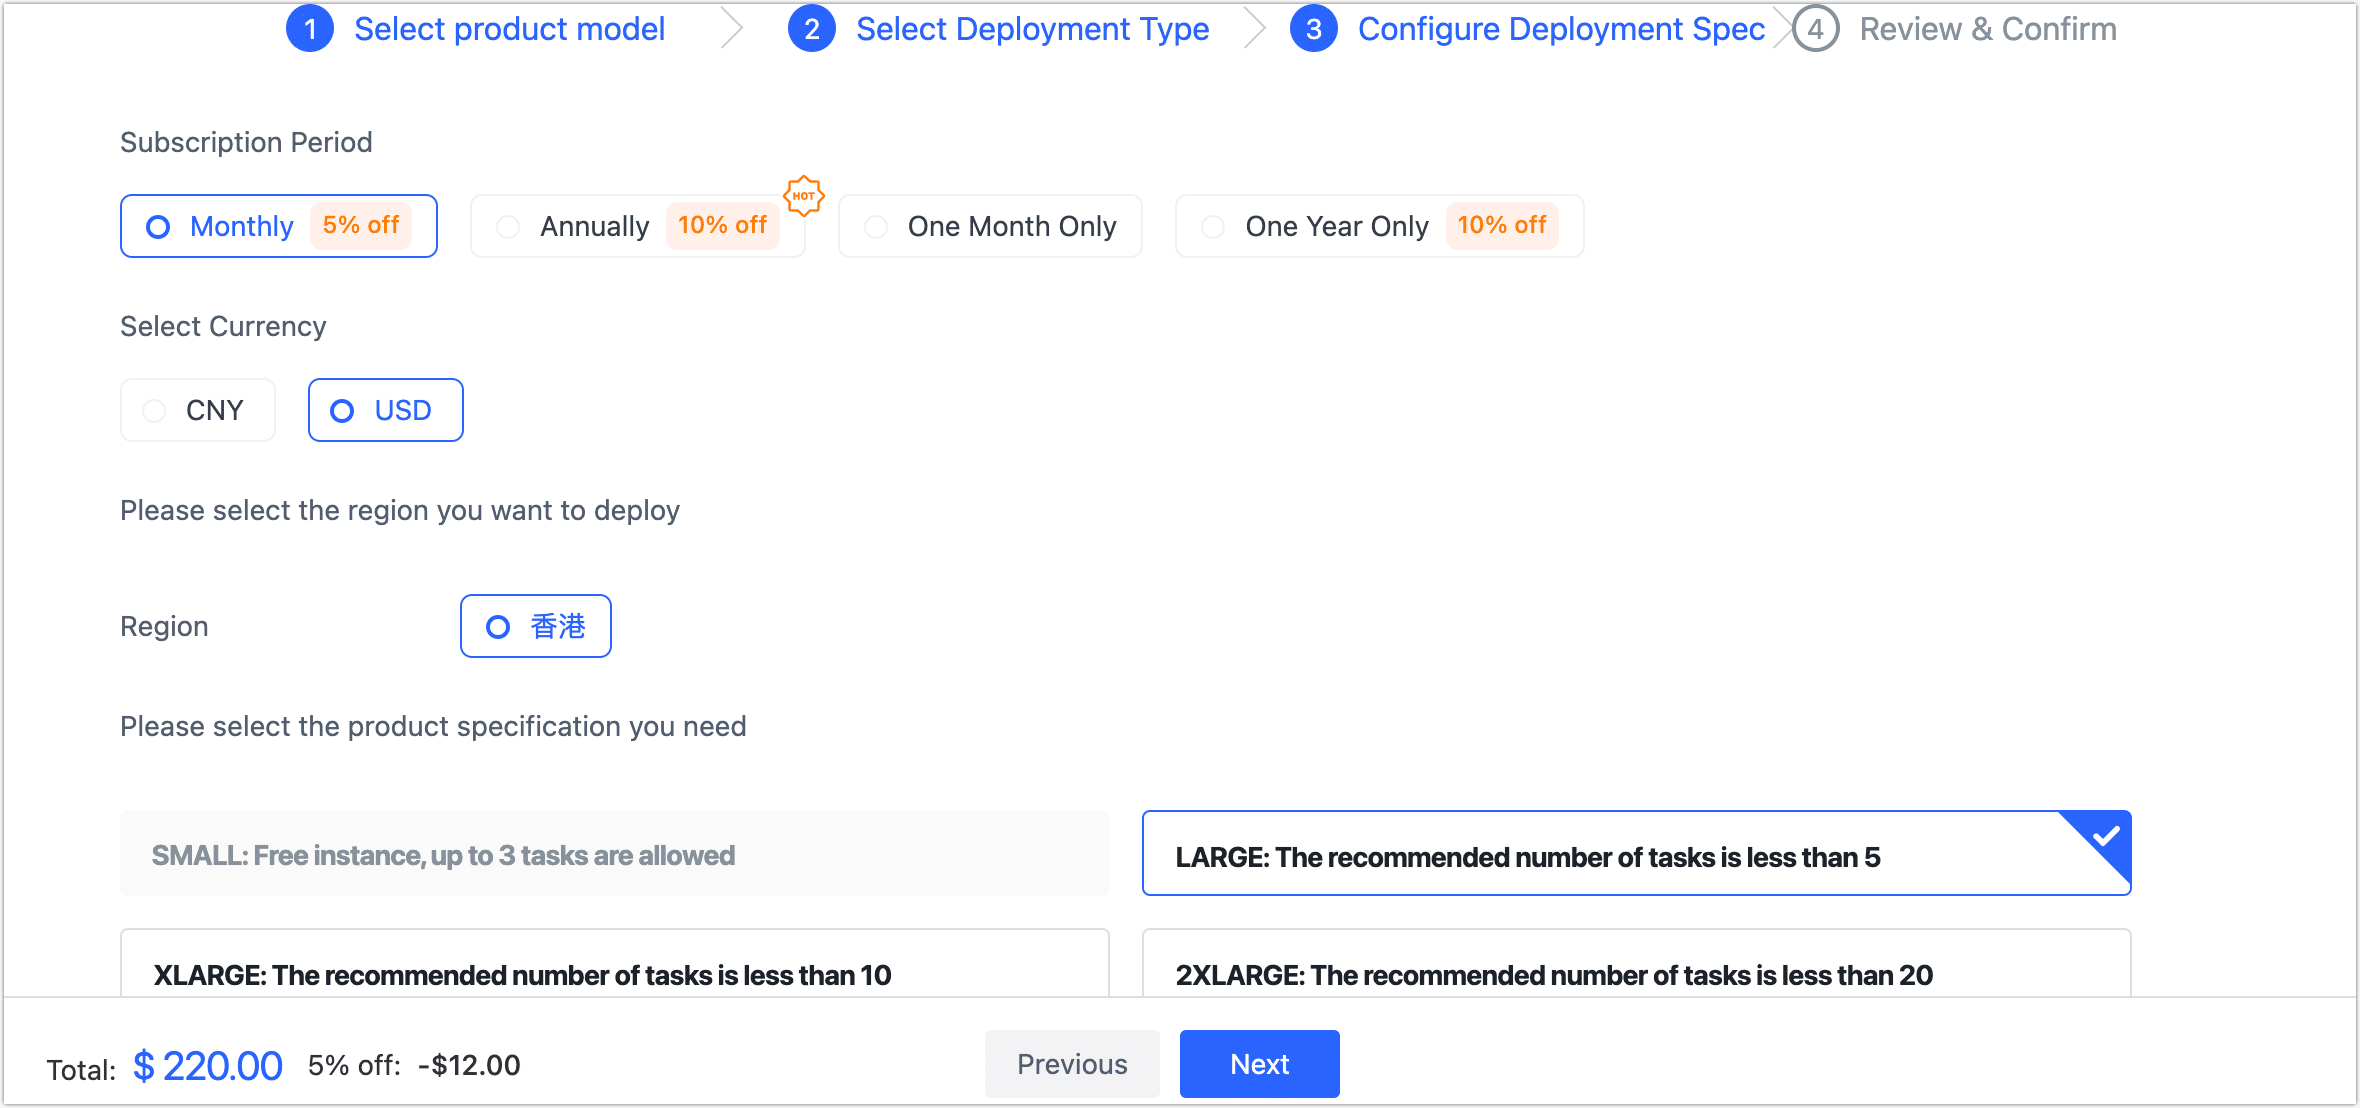
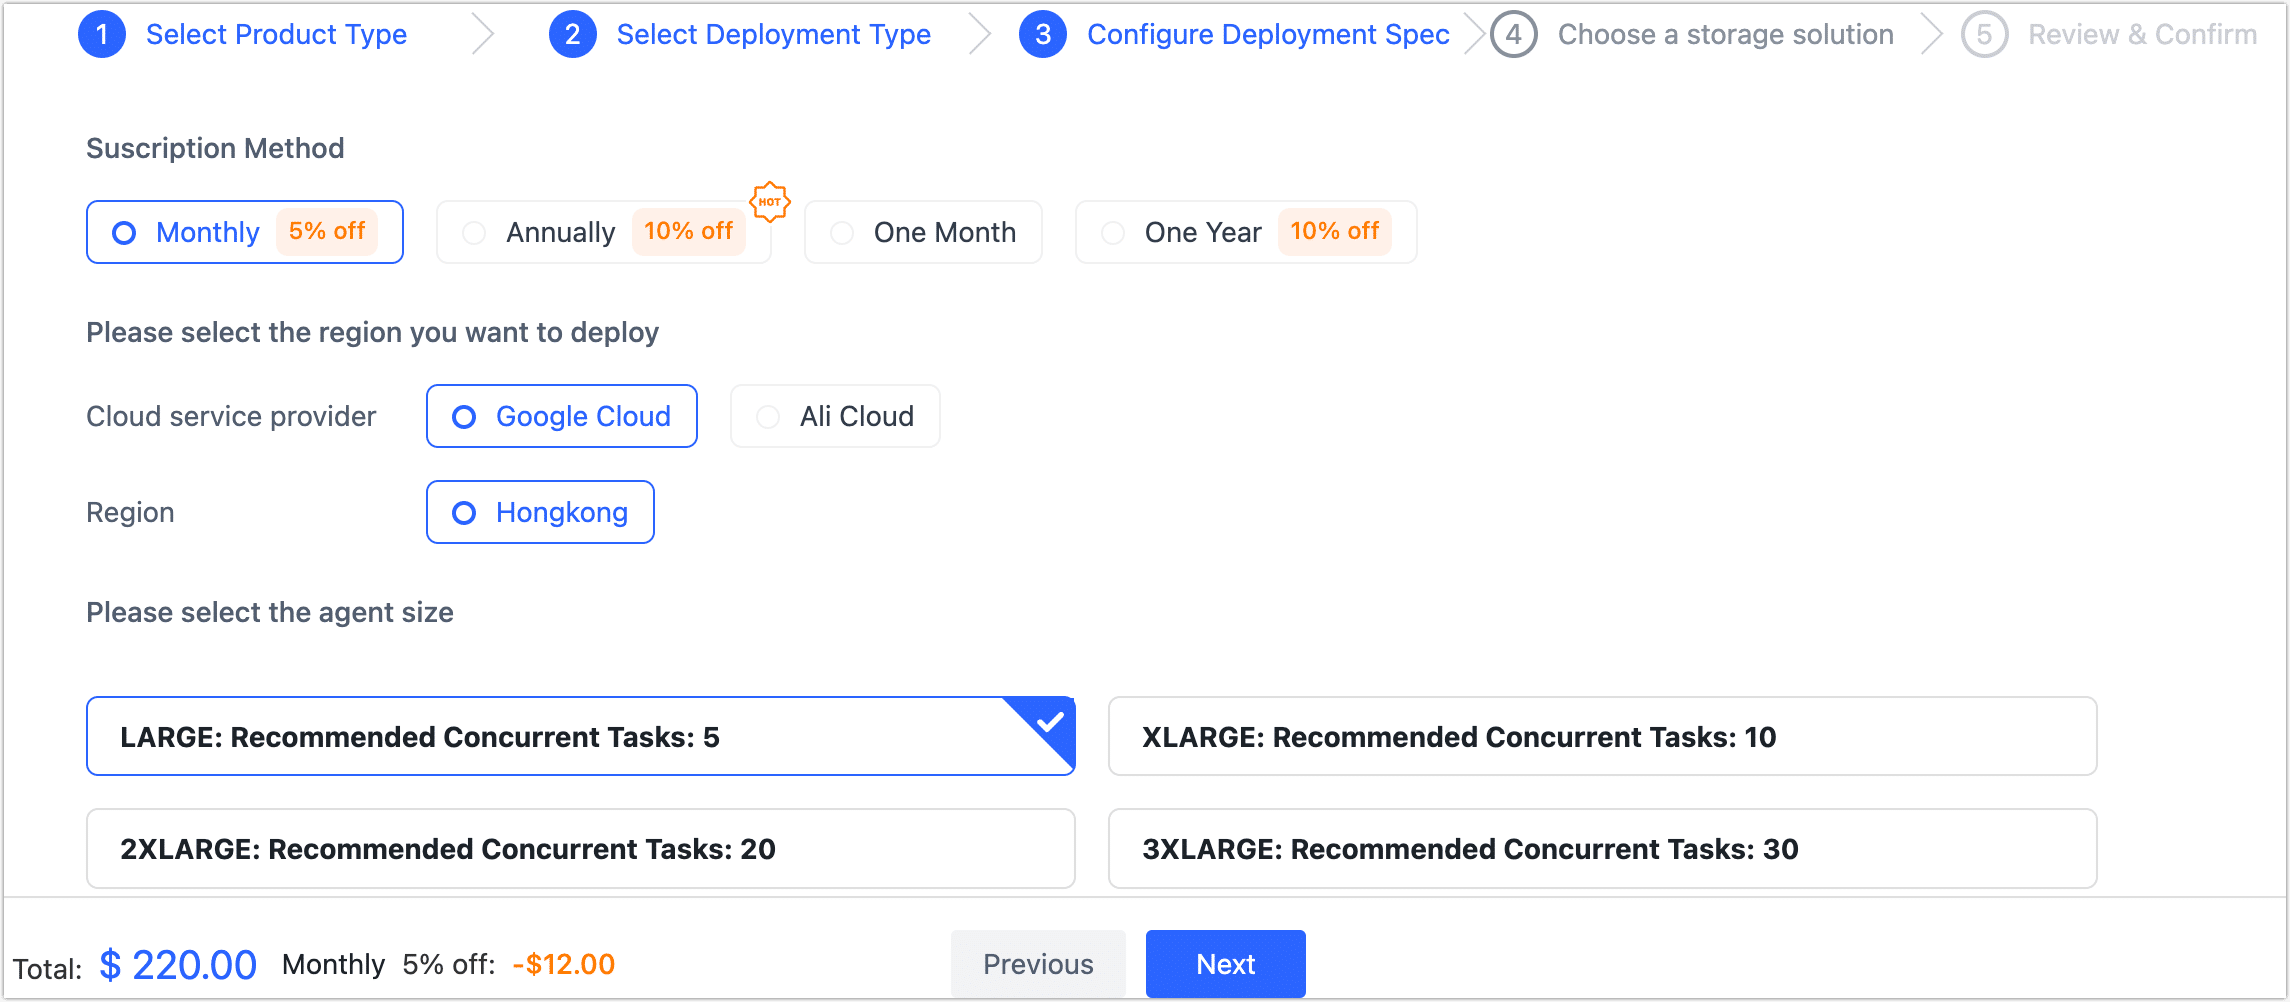
Update purchase storage process

diff --git a/docs/cloud/billing/purchase.md b/docs/cloud/billing/purchase.md
@@ -14,36 +14,72 @@ After registering with Tapdata Cloud, you will receive the benefit of creating o
 
 3. On the right side of the page, click **Create Agent**.
 
-4. In the **Select Product Model** tab, select **Integration Platform as a Service** and click **Next**.
+4. Select product model according your need and click **Next**.
+
+import Tabs from '@theme/Tabs';
+import TabItem from '@theme/TabItem';
+
+<Tabs className="unique-tabs">
+    <TabItem value="etl-model" label="Integration Platform as a Service" default>
+    <p>Suitable for data replication/synchronization, migrate data to cloud or building ETL pipelines. You can simply drag the source table to the target to automatically complete the creation of data replication tasks. For more information, see <a href="../user-guide/data-console/etl-mode"> Integration Platform as a Service</a>.</p>
+    <img src='/img/select_etl_model.png'></img>
+</TabItem>
+   <TabItem value="daas-model" label="Real Time Data as a Service">
+
+   <p>Based on the concept of data hierarchical governance, Tapdata Cloud collects data sources scattered across different business systems through the Data Cache Layer, which minimizes the impact of data extraction on business and provides basic data for subsequent data processing and business, thus building a consistent, real-time data platform and connecting data silos. For more information, see <a href="../user-guide/data-console/daas-mode/enable-daas-mode"> Real Time Data as a Service</a>.</p>
+   <img src='/img/select_daas_model.png'></img>
+   </TabItem>
+</Tabs>
 
 5. Select deployment type according your need and click **Next**.
 
-   :::tip
+<Tabs className="unique-tabs">
+    <TabItem value="semi-managed" label="Semi-Managed Mode" default>
+   <p>You have the flexibility to <a href="../quick-start/install-agent"> deploy the Agent</a> on an existing device, leveraging the available hardware resources. This approach offers cost savings while enhancing security. </p>
+   <img src='/img/semi_managed.png'></img>
+   </TabItem>
+    <TabItem value="full-managed" label="Fully-Managed Mode">
+    <p>Tapdata Cloud will provide the necessary computing/storage resources for running the Agent and deploys it automatically. It offers unified operational maintenance and resource monitoring to enhance operational reliability, enabling one-click delivery and usage, allowing your to focus on core business.</p>
+    <img src='/img/full_managed.png'></img>
+</TabItem>
+</Tabs>
 
-   * **Fully-Managed Mode** (Recommend): Tapdata Cloud will provide the necessary computing/storage resources for running the Agent and deploys it automatically. It offers unified operational maintenance and resource monitoring to enhance operational reliability, enabling one-click delivery and usage, allowing your to focus on core business.
-   * **Semi-Managed Mode**: You have the flexibility to [deploy the Agent](../quick-start/install-agent/README.md) on an existing device, leveraging the available hardware resources. This approach offers cost savings while enhancing security. 
-   * 
-
-   :::
 
 6. Next, we will demonstrate the purchasing process using the **Fully-Managed Mode** as an example. First, select information such as Agent specification and subscription method.
 
    ![Select Agent Specification](../images/select_agent_spec.png)
 
    * **Subscription Period**: Select the required subscription method, in order to avoid the expiration of the instance affecting the execution of the task, it is recommended to choose the Annually (**10% off**) or Monthly (**5% off**).
-   * **Select currency**: Currently supports CNY or USD.
+   * **Cloud Service Provider**:  When selecting the Fully Managed Mode, you need to select the cloud vendors.
    * **Region**: When selecting the Fully Managed Mode, you need to select a region where the Agent will depoly.
-   * **Product specifications**: Select product specifications based on the number of tasks and performance requirements required for evaluation. You can create an example of **SMALL**(Semi-Managed Mode) specifications for free. For detailed descriptions of product pricing and specifications, see [Billing Overview](billing-overview.md).
+   * **Product Specifications**: Select product specifications based on the number of tasks and performance requirements required for evaluation. You can create an example of **SMALL** (Semi-Managed Mode) specifications for free. For detailed descriptions of product pricing and specifications, see [Billing Overview](billing-overview.md).
 
-7. Click **Next**, on the following page, carefully review and confirm the specifications you wish to purchase. Ensure that the selected billing method aligns with your preferences. Additionally, verify that the email address provided is accurate and where you would like to receive the bill. 
+7. If you chose **Real Time Data as a Service** in Step 4, click **Next** and select the storage and compute resources for the **[Data Cache and Data Processing Layer](../user-guide/data-console/daas-mode/enable-daas-mode.md)** based on your Agent deployment mode.
 
-   Once you have double-checked all the information, click on the **OK** button to proceed with the purchase.
+<Tabs className="unique-tabs">
+    <TabItem value="semi-managed-storage" label="Semi-Managed Mode" default>
+   <p>You need to prepare a self-hosted <a href="https://www.mongodb.com/docs/manual/administration/install-on-linux/"> MongoDB database</a>  (4.0 and above) as a data repository, and fill in database URL. The user name and password need to be spliced in the connection string, for example:<pre>mongodb://admin:password@192.168.0.100:27017/mydb?replicaSet=xxx&authSource=admin</pre></p>
+   <img src='/img/etl_storage.png'></img>
+   </TabItem>
+    <TabItem value="full-managed-storage" label="Fully-Managed Mode">
+    <p>Select the specifications and storage capacity provided by the cloud vendor, and you need to pay for the selected cloud resources.</p>
+    <img src='/img/daas_storage.png'></img>
+</TabItem>
+</Tabs>
 
-8. You will redirected to payment page. Please follow the instructions on the payment page to complete the payment process. After completing the payment, you will be able to download the payment credentials.
+8. Click **Next**, carefully review and confirm the specifications you wish to purchase. Ensure that the selected billing method aligns with your preferences. Additionally, verify that the email address provided is accurate and where you would like to receive the bill. 
 
-9. After the payment is successful, return to the Tapdata Cloud platform to see that the Agent instance you purchased is **To be deployed**.
+   Once you have double-checked all the information, click on the **Online Payment** button to proceed with the purchase.
 
-   ![Subscription is successful](../images/purchase_success.png)
+   :::tip
+
+   When selecting the Real Time Data as a Service in step 4, you also need to select the storage resource
+
+   :::
+
+9. You will redirected to payment page. Please follow the instructions on the payment page to complete the payment process. After completing the payment, you will be able to download the payment credentials.
+
+10. After the payment is successful, return to the Tapdata Cloud platform to see that the Agent instance you purchased is **To be deployed**.![Subscription is successful](../images/purchase_success.png)
 
    :::tip
 

diff --git a/docs/cloud/billing/billing-overview.md b/docs/cloud/billing/billing-overview.md
@@ -38,57 +38,57 @@ import TabItem from '@theme/TabItem';
 <thead>
   <tr>
     <th>Specifications</th>
-    <th>One Month Only</th>
     <th>Monthly</th>
-    <th>One Year Only</th>
+    <th>One Month Only</th>
     <th>Annually</th>
+    <th>One Year Only</th>
   </tr>
 </thead>
 <tbody>
   <tr>
     <td>LARGE</td>
-    <td>232</td>
     <td>220</td>
+    <td>232</td>
     <td>2,508</td>
     <td>2,508</td>
   </tr>
   <tr>
     <td>XLARGE</td>
-    <td>464</td>
     <td>440</td>
+    <td>464</td>
     <td>5,016</td>
     <td>5,016</td>
   </tr>
   <tr>
     <td>2XLARGE</td>
-    <td>928</td>
     <td>880</td>
+    <td>928</td>
     <td>10,032</td>
     <td>10,032</td>
   </tr>
-    <tr>
+  <tr>
     <td>3XLARGE</td>
-    <td>1,392</td>
     <td>1,320</td>
+    <td>1,392</td>
     <td>15,048</td>
     <td>15,048</td>
   </tr>
   <tr>
     <td>4XLARGE</td>
-    <td>1,856</td>
     <td>1,764</td>
+    <td>1,856</td>
     <td>20,064</td>
     <td>20,064</td>
   </tr>
-    <tr>
+  <tr>
     <td>8XLARGE</td>
-    <td>3,172</td>
     <td>3,528</td>
+    <td>3,172</td>
     <td>40,128</td>
     <td>40,128</td>
   </tr>
 </tbody>
-</table> 
+</table>
 </TabItem>
    <TabItem value="semi-managed" label="Semi-Managed Mode">
    <p>In Semi-Managed Mode,  you need to provide the equipment for deploying and maintaining the Agent, which allows for the full utilization of existing hardware resources. This approach enables you to benefit from lower prices while further enhancing security.</p>
@@ -96,61 +96,61 @@ import TabItem from '@theme/TabItem';
 <thead>
   <tr>
     <th>Specifications</th>
-    <th>One Month Only</th>
     <th>Monthly</th>
-    <th>One Year Only</th>
+    <th>One Month Only</th>
     <th>Annually</th>
+    <th>One Year Only</th>
   </tr>
 </thead>
 <tbody>
   <tr>
     <td>SMALL</td>
-    <td colspan="4">Free (1 Agent Instance) </td>
+    <td colspan="4">Free (1 Agent Instance)&nbsp;&nbsp;</td>
   </tr>
   <tr>
     <td>LARGE</td>
-    <td>116</td>
     <td>110</td>
+    <td>116</td>
     <td>1,254</td>
     <td>1,254</td>
   </tr>
   <tr>
     <td>XLARGE</td>
-    <td>232</td>
     <td>220</td>
+    <td>232</td>
     <td>2,508</td>
     <td>2,508</td>
   </tr>
   <tr>
     <td>2XLARGE</td>
-    <td>464</td>
     <td>440</td>
+    <td>464</td>
     <td>5,016</td>
     <td>5,016</td>
   </tr>
   <tr>
     <td>3XLARGE</td>
-    <td>696</td>
     <td>660</td>
+    <td>696</td>
     <td>7,524</td>
     <td>7,524</td>
   </tr>
   <tr>
     <td>4XLARGE</td>
-    <td>928</td>
     <td>882</td>
+    <td>928</td>
     <td>10,032</td>
     <td>10,032</td>
   </tr>
   <tr>
     <td>8XLARGE</td>
-    <td>1,856</td>
     <td>1,764</td>
+    <td>1,856</td>
     <td>20,064</td>
     <td>20,064</td>
   </tr>
 </tbody>
-</table> 
+</table>
    </TabItem>
   </Tabs>
 
